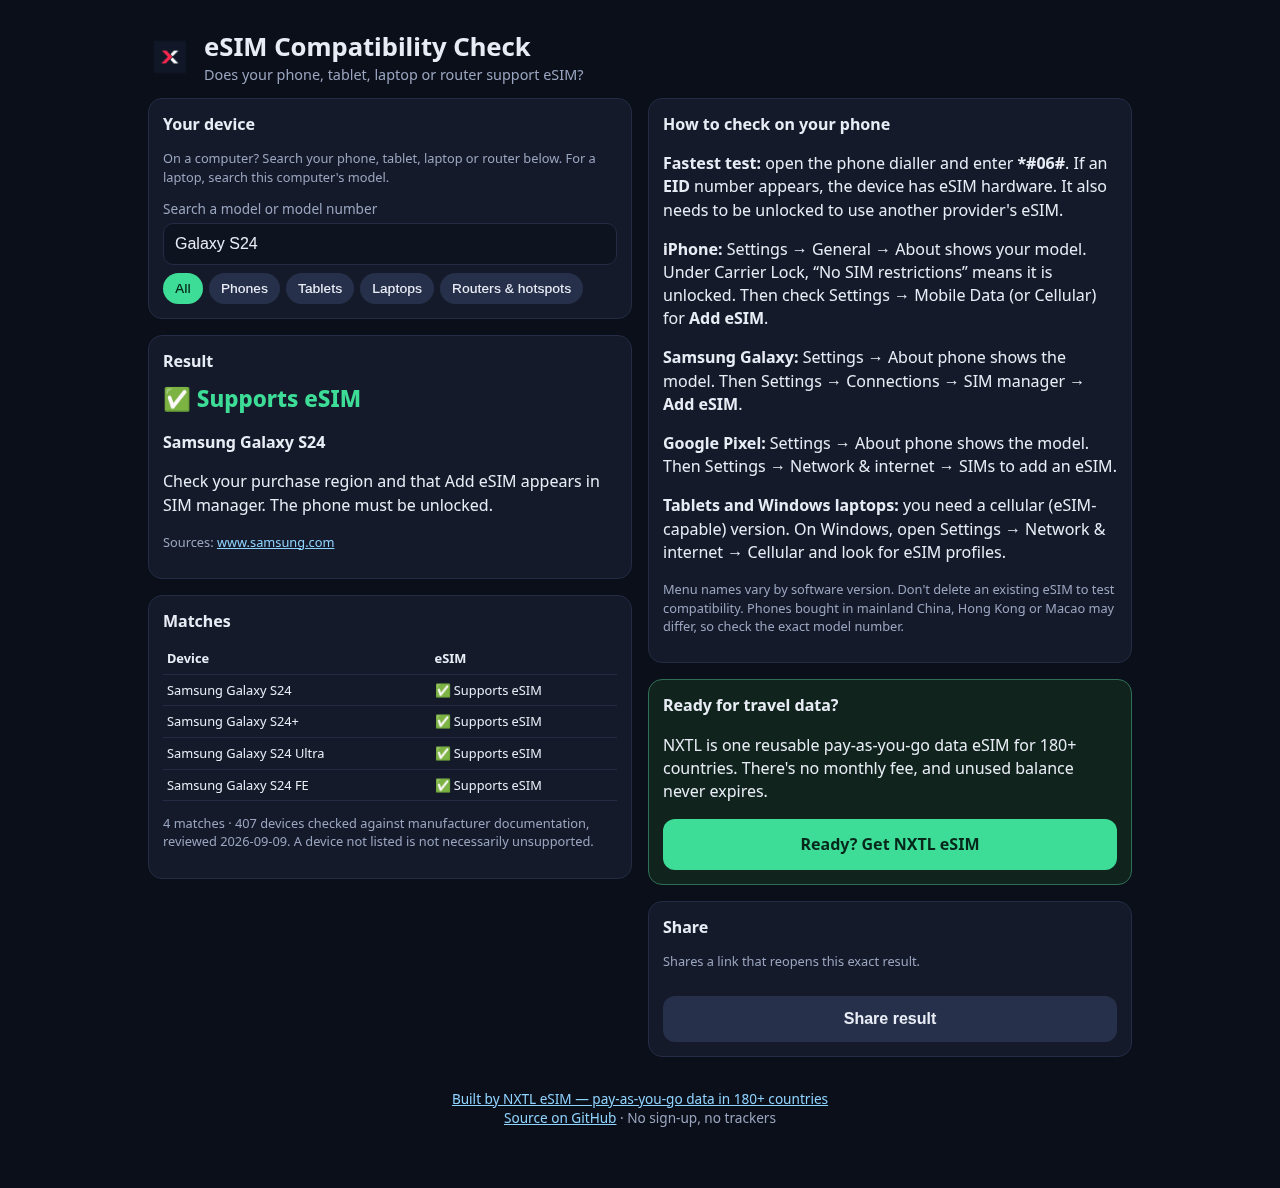
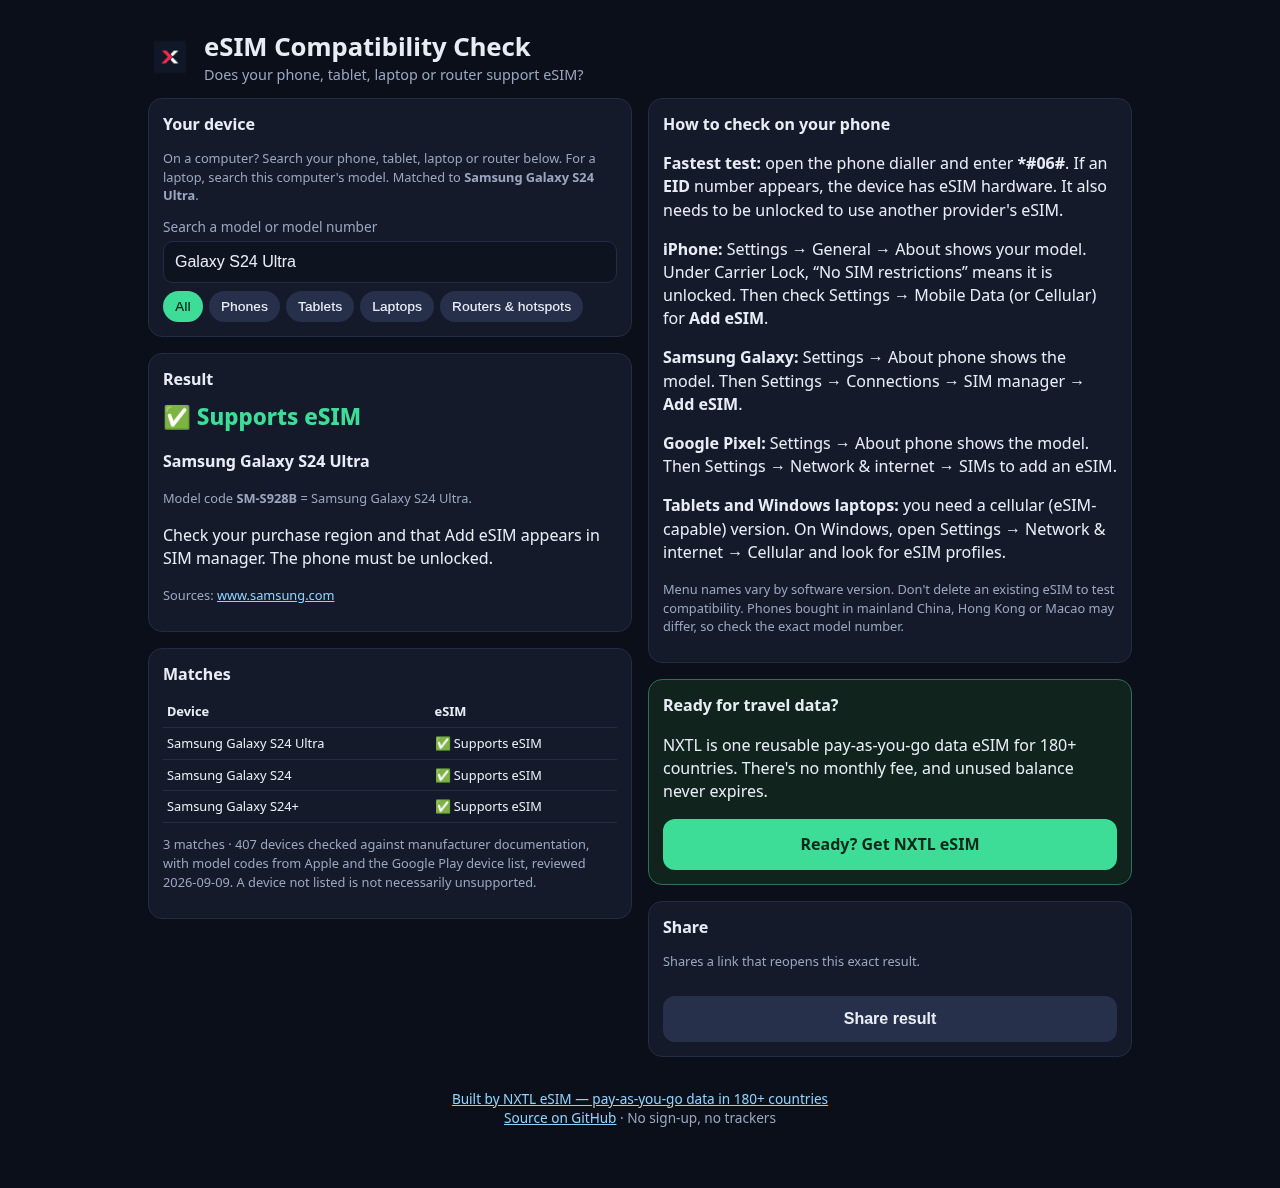
Add model codes for 313 devices

Changed region(s): [[0.125, 0.1557, 0.4688, 0.7475], [0.375, 0.1246, 0.4688, 0.1557], [0.3125, 0.1246, 0.3438, 0.1557]]

diff --git a/README.md b/README.md
@@ -56,6 +56,9 @@ Does my phone support eSIM? This page detects your device where the browser allo
 
 Statuses: Supports eSIM · Depends on configuration · Depends on region/version · Cellular version needed · Needs an eSIM adapter · No eSIM. A device missing from the list is not necessarily unsupported.
 
+## Model codes
+Each device carries the model codes that phones report to browsers (`navigator.userAgentData.model` / Build.MODEL). Android codes such as `SM-S928B` or `CPH2581` come from Google Play's official supported-devices list (https://storage.googleapis.com/play_public/supported_devices.csv). Apple A-numbers and their regions come from https://support.apple.com/en-us/108044 (iPhone) and https://support.apple.com/en-us/108043 (iPad). Samsung codes also match by base code, so `SM-S928` plus any region suffix maps to the Galaxy S24 Ultra. China-mainland iPhone versions are flagged as having no eSIM per https://support.apple.com/en-us/118669; China/Hong Kong/Macao versions get a warning to check. HUAWEI, Rakuten Mini, Fairphone (Gen. 6), Nothing Phone (3), Pixel 5a (5G), AQUOS sense4 lite, Motorola razr+ (2024/2025), Lenovo Tab K11 Gen 2 and iPad Pro 11-inch (1st gen) have no model codes yet, so search them by name. Codes checked 2026-10-26.
+
 ## Files
 `docs/` index.html, manifest.json, sw.js, devices.json, icon-192.png, icon-512.png
 
